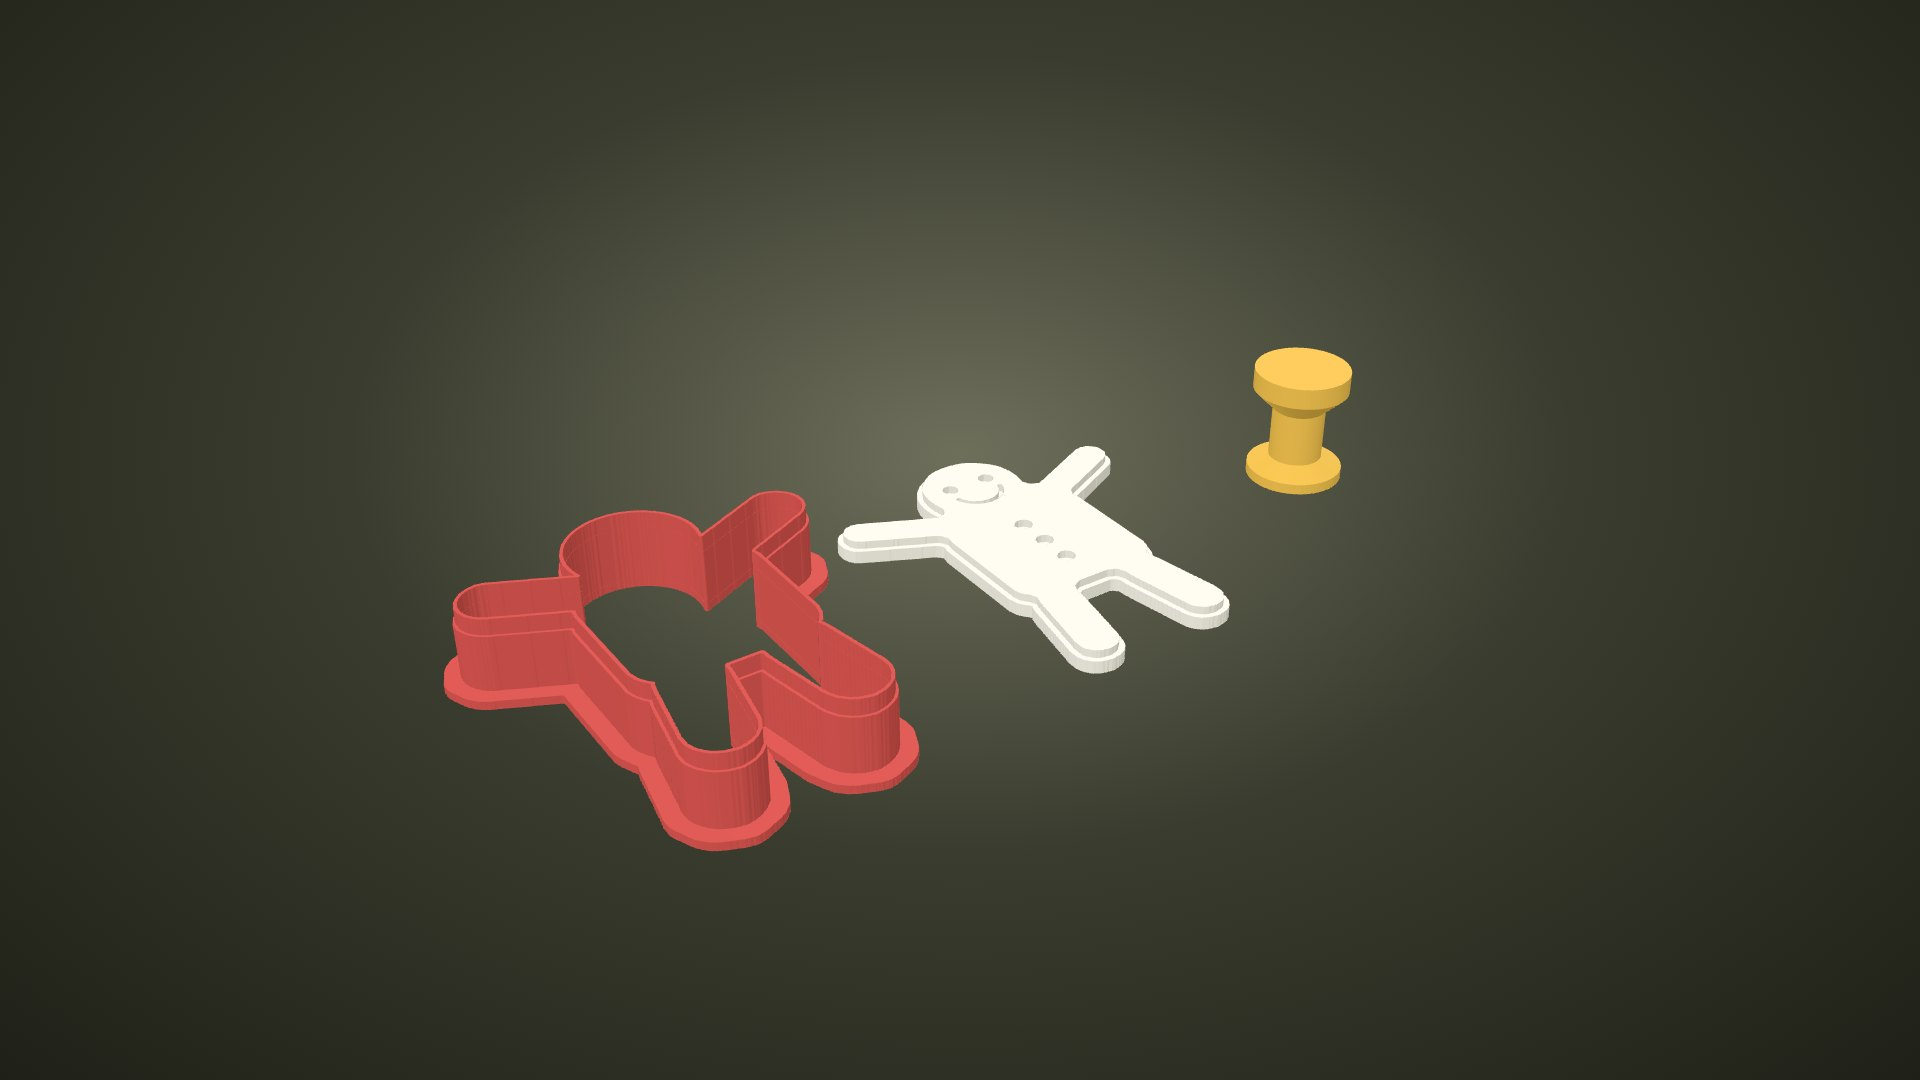
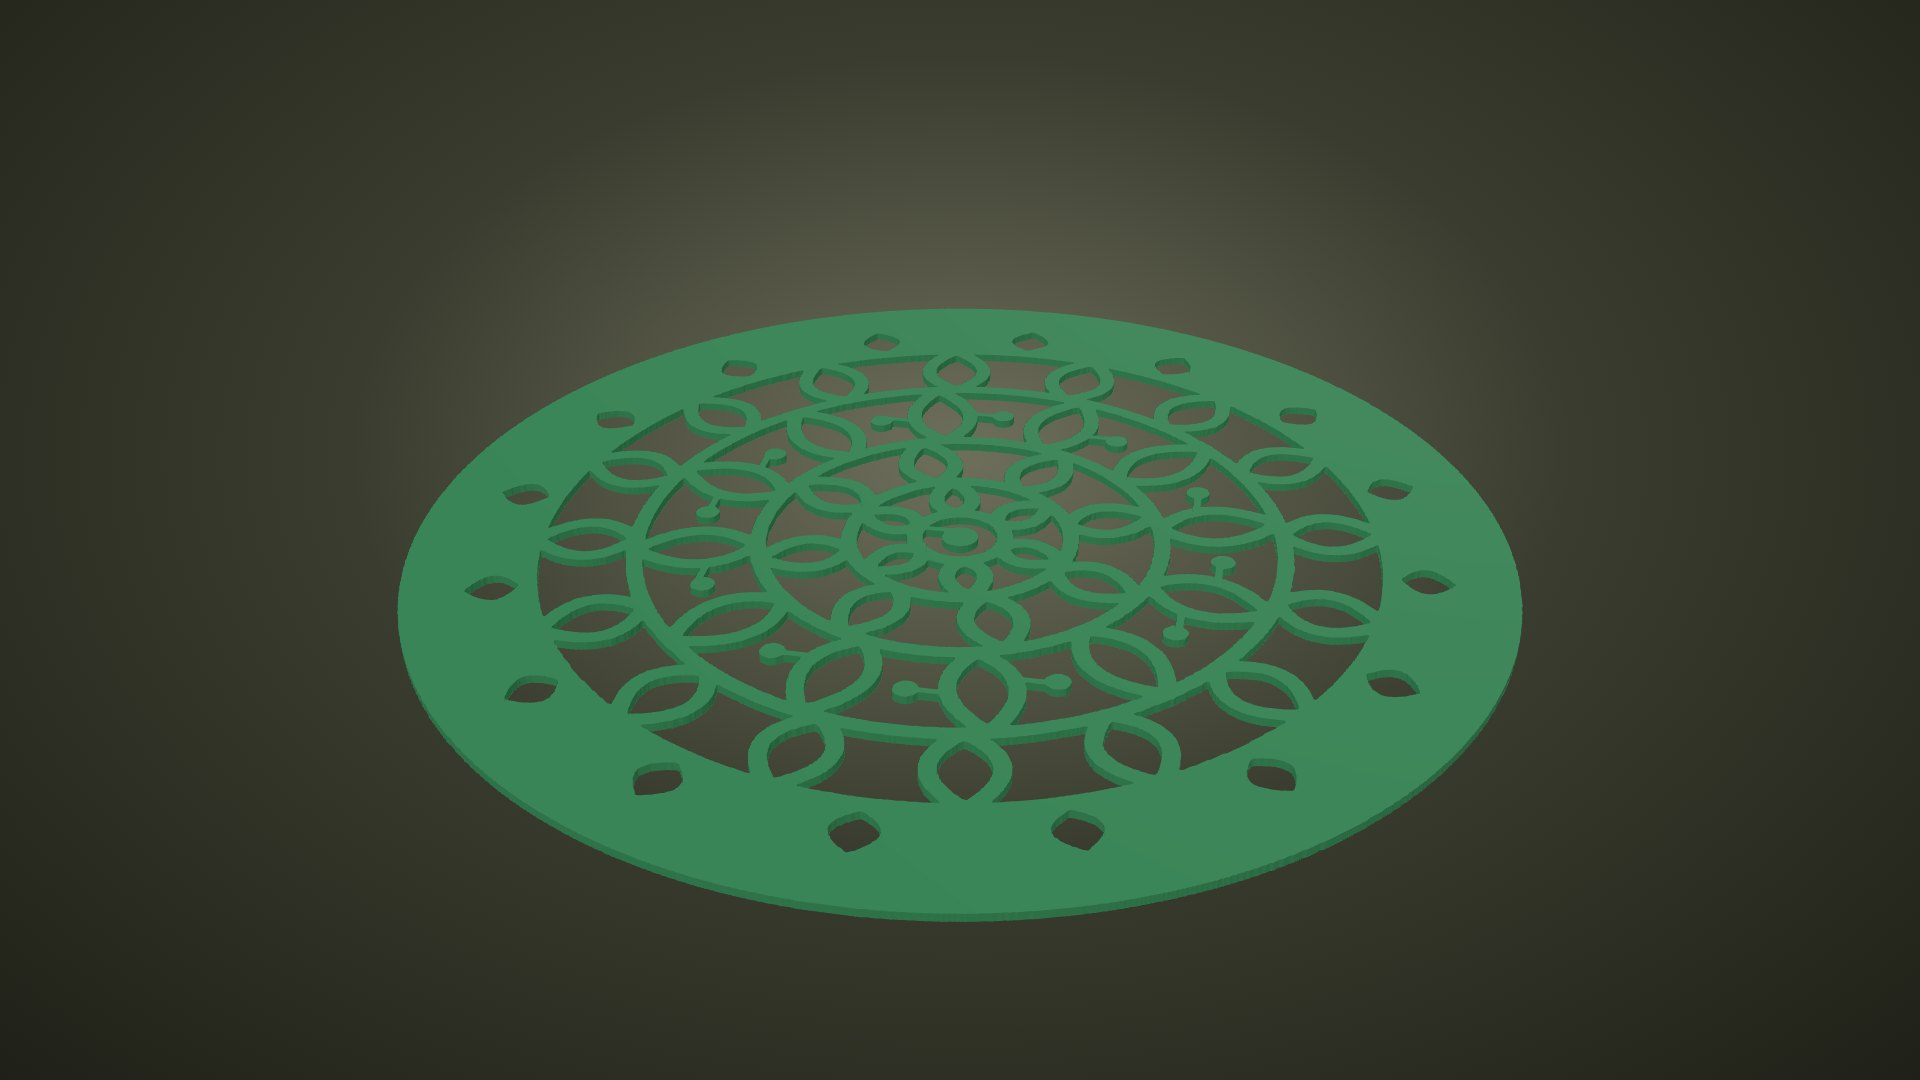
Rangoli Stencil & Cookie Cutter Maker: line-art rangoli mandala that makes a proper stencil, solid pictures fall back to cut-out, rangoli and Diwali naming and keywords, opens on a rangoli stencil
Claude-Session: https://claude.ai/code/session_01VLh6VCEXfHEct3HcRLEJsn

Changed region(s): [[0.1875, 0.275, 0.8125, 0.8556]]

diff --git a/src/lib/tools-extra/cookie-cutter.ts b/src/lib/tools-extra/cookie-cutter.ts
@@ -1,44 +1,52 @@
-/* Catalogue entry for the Cookie Cutter & Stamp Maker. */
+/* Catalogue entry for the Rangoli Stencil, Cookie Cutter & Stamp Maker. */
 import type { Tool, ToolSeo } from '@/lib/tools';
 
 export const tool: Tool | null = {
   slug: 'cookie-cutter',
-  name: 'Cookie Cutter & Stamp Maker',
-  short: 'Cutters, matching stamps and rangoli stencils from any picture or shape.',
-  lede: 'Turn a drawing, a logo, a letter or a ready shape into a cookie cutter with a sharp edge and a comfortable flange, plus a matching stamp that presses the inner lines. Or make a fondant and clay stamp, or a rangoli stencil for Diwali.',
+  name: 'Rangoli Stencil & Cookie Cutter Maker',
+  short: 'Rangoli stencils for Diwali, cookie cutters and stamps from any picture or shape.',
+  lede: 'Turn any rangoli design, mandala, drawing, logo or letter into a 3D printed rangoli stencil, a cookie cutter with a matching stamp, or a fondant and clay stamp. Upload your own picture or start from ready mandalas and shapes; loose parts are joined with thin bridges so every stencil prints in one piece.',
   status: 'coming_soon',
   makePath: '/tools/cookie-cutter/make',
   index: '07',
   image: '/images/hero-cookie-cutter.jpg',
-  slide: { title: 'Any shape, cut and stamped.', lede: 'Cookie cutters with matching stamps, fondant stamps and rangoli stencils from your own pictures.' },
+  slide: { title: 'Rangoli for Diwali, cutters for every day.', lede: 'Print rangoli stencils from any design, and cookie cutters with matching stamps from your own pictures.' },
   youGet: [
-    'A cookie cutter STL with a thin cutting edge and a flange',
-    'A matching stamp (mirrored details) and a handle',
-    'Rangoli stencils with the design cut through and loose islands handled',
-    'A commercial license: sell the cutters and the files',
+    'Rangoli stencils from your own design or a ready mandala, in round, square or rounded plates',
+    'Loose parts joined with thin bridges, so the stencil is one piece',
+    'Cookie cutters with a thin cutting edge, a flange and a matching stamp',
+    'Fondant, clay and soap stamps with mirrored details and a handle',
+    'Letters and numbers, plus ready shapes: heart, star, flower, lotus and more',
+    'A commercial license: sell the stencils, cutters and the files',
   ],
   steps: [
-    { title: 'Pick a shape', text: 'Upload a picture or line drawing, choose a ready shape, or type a letter or number.' },
-    { title: 'Tune the cutter', text: 'Size, height, wall and flange, and whether to add a stamp for the inner lines. Or switch to a stamp or a rangoli stencil.' },
-    { title: 'Print and bake', text: 'Print flange-down with no supports, in PLA or PETG. Dust the stamp with flour and press.' },
+    { title: 'Choose a design', text: 'Upload a rangoli, mandala, kolam or line drawing (a transparent PNG works best), pick a ready shape, or type letters.' },
+    { title: 'Make it printable', text: 'Choose a rangoli stencil, a cookie cutter or a stamp. Set the size, plate shape, thickness and bridges, and check it in 3D.' },
+    { title: 'Print and use', text: 'Print flat with no supports. Fill the stencil with rangoli powder, or bake with the cutter and stamp.' },
   ],
   specs: [
-    ['Makes', 'Cookie cutters, stamps, rangoli stencils'],
-    ['Size', 'Cutters 30–160 mm, stencils 80–280 mm'],
-    ['Cutter', '8–30 mm tall, thin top edge, 0–8 mm flange'],
-    ['Shapes', 'Your picture, letters and numbers, or ready shapes'],
+    ['Makes', 'Rangoli stencils, cookie cutters, cookie and fondant stamps'],
+    ['Stencils', '80–280 mm, round, square or rounded plates, 0.6–3 mm thick'],
+    ['Designs', 'Your picture or PNG, ready rangoli mandalas, shapes, letters and numbers'],
+    ['Cutters', '30–160 mm, 8–30 mm tall, thin top edge, 0–8 mm flange'],
     ['Files', 'Binary STL in a single zip'],
   ],
   faq: [
+    { q: 'How do I make a 3D printed rangoli stencil?', a: 'Upload your rangoli or mandala design (a PNG with a transparent background works best) or choose the ready mandala. The lines of the design become the plastic and the spaces between them are cut through, so the powder falls into the pattern. Print it flat in PLA or PETG.' },
+    { q: 'Will small parts of my rangoli fall out?', a: 'No. Pieces that would be loose, like dots and inner petals, are joined to the stencil with thin bridges you can make wider or narrower. The stencil prints as one piece.' },
+    { q: 'Can I use it for Diwali, Pongal or Onam kolam designs?', a: 'Yes. Any design works: rangoli, kolam, alpana, mandala or a name. Make it as big as your printer allows, up to 280 mm, or print several and place them side by side.' },
     { q: 'What pictures make good cookie cutters?', a: 'A clear silhouette or a line drawing on a plain background. The outside line becomes the cutter; the lines inside can become a matching stamp that presses details into the dough.' },
     { q: 'Are 3D printed cookie cutters food safe?', a: 'Use a filament sold as food-safe, keep the cutter for short contact only, and wash it by hand. Many bakers put a sheet of cling film between cutter and dough.' },
-    { q: 'How does the rangoli stencil work?', a: 'The dark parts of the design are cut through a thin plate. Lay it down, fill the openings with rangoli powder, and lift it straight up. Small islands that would fall out are removed or listed for you.' },
-    { q: 'Can I sell the cutters?', a: 'Yes. Every download comes with a commercial license for the prints and the files.' },
+    { q: 'Can I sell the stencils and cutters?', a: 'Yes. Every download comes with a commercial license for the prints and the files.' },
   ],
 };
 
 export const seo: ToolSeo | null = {
-  title: 'Cookie Cutter STL Generator – Custom Cutters, Stamps & Rangoli Stencils',
-  description: 'Make a custom 3D printable cookie cutter from any picture, letter or shape, with a matching stamp. Also fondant stamps and rangoli stencils.',
-  keywords: ['cookie cutter stl generator', 'custom cookie cutter 3d print', 'cookie stamp stl', 'fondant stamp', 'rangoli stencil', 'diwali rangoli stencil 3d print', 'picture to cookie cutter'],
+  title: 'Rangoli Stencil Maker – 3D Printed Rangoli Stencils for Diwali, Cookie Cutters & Stamps (STL)',
+  description: 'Make 3D printed rangoli stencils for Diwali from any design or mandala, plus custom cookie cutters with matching stamps. Loose parts joined automatically. Print-ready STL.',
+  keywords: [
+    'rangoli stencil maker', '3d printed rangoli', '3d printed rangoli stencil', 'rangoli stencil stl', 'diwali rangoli stencil', 'rangoli maker online',
+    'rangoli design stencil', 'mandala stencil stl', 'kolam stencil', 'diwali 3d print', 'rangoli stencil generator', 'custom rangoli stencil',
+    'cookie cutter stl generator', 'custom cookie cutter 3d print', 'cookie stamp stl', 'fondant stamp', 'picture to cookie cutter',
+  ],
 };

diff --git a/src/components/cookie/cookie-maker.tsx b/src/components/cookie/cookie-maker.tsx
@@ -45,18 +45,18 @@ const place = (src: Uint8Array, sw: number, sh: number, W: number, H: number) =>
 
 export function CookieMaker(buy: KitBuy) {
   const [source, setSource] = useState<Source>('preset');
-  const [preset, setPreset] = useState<Preset>('heart');
+  const [preset, setPreset] = useState<Preset>('mandala');
   const [pic, setPic] = useState<Pic | null>(null), [thumb, setThumb] = useState<string | null>(null);
   const [text, setText] = useState('A'), [fontOk, setFontOk] = useState(false);
   const [thr, setThr] = useState<number | null>(null), [printed, setPrinted] = useState<'drawing' | 'cutout'>('drawing'), [invert, setInvert] = useState(false), [fill, setFill] = useState(true), [largest, setLargest] = useState(true), [useDetail, setUseDetail] = useState(true);
   const [plateShape, setPlateShape] = useState<'circle' | 'square' | 'rounded'>('circle');
-  const [name, setName] = useState('Heart');
-  const [p, setP] = useState<CookieParams>({ mode: 'cutter', size: 80, height: 15, wall: 1.2, edge: 0.6, flange: 3, flangeT: 1.6, plateT: 2.4, reliefT: 1.5, clearance: 0.8, handle: true, stampToo: true, stencilT: 1.2, rim: 4, islands: 'join', bridge: 1.2 });
+  const [name, setName] = useState('Rangoli mandala');
+  const [p, setP] = useState<CookieParams>({ mode: 'stencil', size: 160, height: 15, wall: 1.2, edge: 0.6, flange: 3, flangeT: 1.6, plateT: 2.4, reliefT: 1.5, clearance: 0.8, handle: true, stampToo: true, stencilT: 1.2, rim: 4, islands: 'join', bridge: 1.2 });
   const snap = useRef<MeshSnap | null>(null);
   const set = <K extends keyof CookieParams>(k: K, v: CookieParams[K]) => setP((o) => ({ ...o, [k]: v }));
 
   useEffect(() => { let ok = true; loadGoogleFont('Poppins', 800).then(() => ok && setFontOk(true)); return () => { ok = false; }; }, []);
-  const mode = (m: CookieMode) => { setP((o) => ({ ...o, mode: m, size: m === 'stencil' ? 160 : o.mode === 'stencil' ? 80 : o.size })); if (m === 'stencil' && source === 'preset' && preset !== 'rangoli') { setPreset('rangoli'); setName('Rangoli'); } };
+  const mode = (m: CookieMode) => { setP((o) => ({ ...o, mode: m, size: m === 'stencil' ? 160 : o.mode === 'stencil' ? 80 : o.size })); if (m !== 'stencil' && source === 'preset' && (preset === 'mandala' || preset === 'rangoli')) { setPreset('heart'); setName('Heart'); } if (m === 'stencil' && source === 'preset' && preset !== 'rangoli' && preset !== 'mandala') { setPreset('mandala'); setName('Rangoli mandala'); } };
 
   // the masks, at the resolution the server uses
   // shapes are drawn on a canvas, which only exists in the browser (the page is also rendered once on the server)
@@ -81,8 +81,13 @@ export function CookieMaker(buy: KitBuy) {
       const ink = place(d2.m, d2.w, d2.h, W, H);
       // 'drawing': the picture itself is printed and the gaps inside its outline are cut through;
       // 'cutout': the picture is cut out of a solid plate
-      const detail = printed === 'drawing' ? fillHoles(ink, W, H).map((v, i) => (v && !ink[i] ? 1 : 0)) : ink;
-      return { px, W, H, alpha: d2.alpha ?? false, thr: d2.thr ?? 128, shape: plate, detail, n: pieces(plate.map((v, i) => (v && !detail[i] ? 1 : 0)), W, H).count };
+      let detail = printed === 'drawing' ? fillHoles(ink, W, H).map((v, i) => (v && !ink[i] ? 1 : 0)) : ink, solidPic = false;
+      if (printed === 'drawing') {
+        // a solid picture (no enclosed gaps) would leave nothing to cut: cut its shape out instead
+        let gaps = 0, area = 0; for (let i = 0; i < W * H; i++) { if (ink[i]) area++; if (detail[i]) gaps++; }
+        if (gaps < area * 0.02) { detail = ink; solidPic = true; }
+      }
+      return { px, W, H, solidPic, alpha: d2.alpha ?? false, thr: d2.thr ?? 128, shape: plate, detail, n: pieces(plate.map((v, i) => (v && !detail[i] ? 1 : 0)), W, H).count };
     }
     const pad = Math.ceil((p.wall + p.flange + 3) * px), W = raw.w + 2 * pad, H = raw.h + 2 * pad;
     const all = place(raw.m, raw.w, raw.h, W, H);
@@ -127,7 +132,7 @@ export function CookieMaker(buy: KitBuy) {
       youGet={<><p className="eyebrow">What you get</p><p style={{ marginTop: 8, fontSize: 14.5 }}>{p.mode === 'cutter' ? 'The cutter STL' + (masks?.detail && p.stampToo ? ', a matching stamp that presses the inner lines, and a handle' : '') : p.mode === 'stamp' ? 'The stamp plate, its raised details and a handle' : 'The stencil STL'}, print notes and a commercial license to sell what you print.</p></>}
       side={<>
         <Group title="What to make">
-          <Seg<CookieMode> label="Type" value={p.mode} onChange={mode} options={[['cutter', 'Cookie cutter'], ['stamp', 'Stamp'], ['stencil', 'Rangoli stencil']]} />
+          <Seg<CookieMode> label="Type" value={p.mode} onChange={mode} options={[['stencil', 'Rangoli stencil'], ['cutter', 'Cookie cutter'], ['stamp', 'Stamp']]} />
         </Group>
         <Group title="Shape">
           <Seg<Source> label="From" value={source} onChange={setSource} options={[['preset', 'Ready shapes'], ['picture', 'A picture'], ['text', 'Letters']]} />
@@ -167,6 +172,7 @@ export function CookieMaker(buy: KitBuy) {
           <Range label="Thickness" value={p.stencilT} onChange={(v) => set('stencilT', v)} min={0.6} max={3} step={0.1} fmt={(v) => `${v.toFixed(1)} mm`} />
           <Range label="Solid rim" value={p.rim} onChange={(v) => set('rim', v)} min={0} max={15} step={0.5} fmt={(v) => `${v} mm`} />
           <Seg<'drawing' | 'cutout'> label="The picture is" value={printed} onChange={setPrinted} options={[['drawing', 'Printed (gaps cut)'], ['cutout', 'Cut out']]} />
+          {masks && 'solidPic' in masks && masks.solidPic && <p className="hint" style={{ color: '#8a3b12' }}>This picture is solid shapes with no gaps inside, so its shapes are cut out of the plate instead.</p>}
           <p className="hint">{printed === 'drawing' ? 'The stencil looks like your picture: its lines are plastic and the spaces between them are open for the powder.' : 'The picture is cut out of a solid plate: the powder lands in its shape.'}</p>
           <Seg<'join' | 'remove' | 'keep'> label="Loose pieces" value={p.islands} onChange={(v) => set('islands', v)} options={[['join', 'Join with bridges'], ['remove', 'Remove'], ['keep', 'Keep']]} />
           {p.islands === 'join' && <Range label="Bridge width" value={p.bridge} onChange={(v) => set('bridge', v)} min={0.6} max={3} step={0.1} fmt={(v) => `${v.toFixed(1)} mm`} />}

diff --git a/src/lib/cookie/shapes.ts b/src/lib/cookie/shapes.ts
@@ -1,6 +1,6 @@
 /* Ready-made shapes for cutters and stencils, drawn on a canvas (black = shape). */
-export type Preset = 'heart' | 'star' | 'circle' | 'flower' | 'moon' | 'person' | 'rangoli' | 'lotus';
-export const PRESETS: [Preset, string][] = [['heart', 'Heart'], ['star', 'Star'], ['circle', 'Circle'], ['flower', 'Flower'], ['moon', 'Crescent moon'], ['person', 'Gingerbread person'], ['lotus', 'Lotus'], ['rangoli', 'Rangoli pattern']];
+export type Preset = 'heart' | 'star' | 'circle' | 'flower' | 'moon' | 'person' | 'rangoli' | 'lotus' | 'mandala';
+export const PRESETS: [Preset, string][] = [['heart', 'Heart'], ['star', 'Star'], ['circle', 'Circle'], ['flower', 'Flower'], ['moon', 'Crescent moon'], ['person', 'Gingerbread person'], ['lotus', 'Lotus'], ['mandala', 'Rangoli mandala'], ['rangoli', 'Rangoli flower (solid shapes)']];
 
 export function drawPreset(kind: Preset, S = 600): HTMLCanvasElement {
   const c = document.createElement('canvas'); c.width = S; c.height = S;
@@ -27,6 +27,24 @@ export function drawPreset(kind: Preset, S = 600): HTMLCanvasElement {
     const petal = (a: number, len: number, wid: number) => { g.save(); g.translate(m, S * 0.72); g.rotate(a); g.beginPath(); g.moveTo(0, 0); g.quadraticCurveTo(wid, -len * 0.55, 0, -len); g.quadraticCurveTo(-wid, -len * 0.55, 0, 0); g.fill(); g.restore(); };
     for (const a of [-1.15, 1.15]) petal(a, S * 0.42, S * 0.14); for (const a of [-0.6, 0.6]) petal(a, S * 0.55, S * 0.16); petal(0, S * 0.62, S * 0.17);
     g.beginPath(); g.ellipse(m, S * 0.76, S * 0.34, S * 0.08, 0, 0, Math.PI * 2); g.fill();
+  } else if (kind === 'mandala') {
+    // line-art mandala: the lines are printed, the spaces between them are cut for the powder
+    g.lineWidth = S * 0.016; g.lineJoin = 'round'; g.lineCap = 'round';
+    const ring = (r: number) => { g.beginPath(); g.arc(m, m, S * r, 0, Math.PI * 2); g.stroke(); };
+    const at = (r: number, a: number): [number, number] => [m + S * r * Math.cos(a), m + S * r * Math.sin(a)];
+    const petal = (a: number, r0: number, r1: number, wid: number) => {
+      const [x0, y0] = at(r0, a), [x1, y1] = at(r1, a), mid = (r0 + r1) / 2, [cx1, cy1] = at(mid, a + wid), [cx2, cy2] = at(mid, a - wid);
+      g.beginPath(); g.moveTo(x0, y0); g.quadraticCurveTo(cx1, cy1, x1, y1); g.quadraticCurveTo(cx2, cy2, x0, y0); g.stroke();
+    };
+    const dot = (r: number, a: number, d: number) => { const [x, y] = at(r, a); g.beginPath(); g.arc(x, y, S * d, 0, Math.PI * 2); g.fill(); };
+    // every petal runs from one ring to the next, so the printed lines all hold together
+    ring(0.045); ring(0.11); ring(0.2); ring(0.32); ring(0.42);
+    for (let i = 0; i < 6; i++) petal((i / 6) * Math.PI * 2, 0.045, 0.11, 0.5);
+    for (let i = 0; i < 8; i++) { const a = (i / 8) * Math.PI * 2 + Math.PI / 8; petal(a, 0.11, 0.2, 0.34); }
+    for (let i = 0; i < 12; i++) { const a = (i / 12) * Math.PI * 2; petal(a, 0.2, 0.32, 0.24); dot(0.26, a + Math.PI / 12, 0.012); }
+    for (let i = 0; i < 16; i++) { const a = (i / 16) * Math.PI * 2 + Math.PI / 16; petal(a, 0.32, 0.42, 0.17); }
+    for (let i = 0; i < 16; i++) { const a = (i / 16) * Math.PI * 2; petal(a, 0.42, 0.49, 0.13); }
+    dot(0, 0, 0.018);
   } else {
     // rangoli: rings of petals, dots and a flower in the middle
     g.lineWidth = S * 0.012;

diff --git a/src/app/tools/cookie-cutter/make/page.tsx b/src/app/tools/cookie-cutter/make/page.tsx
@@ -5,17 +5,17 @@ import { KitPage, previewNote } from '@/components/kit/kit-page';
 import { CookieMaker } from '@/components/cookie/cookie-maker';
 
 export const metadata: Metadata = pageMeta({
-  title: 'Cookie Cutter & Stamp STL Maker – Plus Rangoli Stencils',
+  title: 'Rangoli Stencil Maker for Diwali – 3D Printed Rangoli Stencils, Cookie Cutters & Stamps (STL)',
   absoluteTitle: true,
-  description: 'Turn any picture, shape or letter into a 3D printable cookie cutter with a matching stamp, a fondant or clay stamp, or a rangoli stencil. Print-ready STL files.',
+  description: 'Turn any rangoli, mandala or kolam design into a 3D printable rangoli stencil for Diwali, with loose parts joined automatically. Also cookie cutters with matching stamps and fondant stamps.',
   path: '/tools/cookie-cutter/make',
-  keywords: ['cookie cutter stl generator', 'custom cookie cutter', 'cookie stamp stl', 'rangoli stencil 3d print', 'fondant stamp stl', 'picture to cookie cutter'],
+  keywords: ['rangoli stencil maker', '3d printed rangoli', 'diwali rangoli stencil', 'rangoli stencil stl', 'mandala stencil', 'kolam stencil', 'cookie cutter stl generator', 'cookie stamp stl'],
 });
 
 export default async function MakeCookie() {
   const c = await makerContext('cookie-cutter');
   return (
-    <KitPage slug="cookie-cutter" name="Cookie Cutter & Stamp Maker" title="Make a cookie cutter or stencil" note={previewNote(c.live, 'Free to try. Your picture stays in your browser; the printable files are built when you download.')}>
+    <KitPage slug="cookie-cutter" name="Rangoli Stencil & Cookie Cutter Maker" title="Make a rangoli stencil or cookie cutter" note={previewNote(c.live, 'Free to try. Your picture stays in your browser; the printable files are built when you download.')}>
       <CookieMaker {...c.buy} />
     </KitPage>
   );

diff --git a/src/lib/kits/cookie-cutter.server.ts b/src/lib/kits/cookie-cutter.server.ts
@@ -1,4 +1,4 @@
-/* Server kit for the Cookie Cutter & Stamp Maker: rebuilds the parts from the saved masks. */
+/* Server kit for the Rangoli Stencil & Cookie Cutter Maker: rebuilds the parts from the saved masks. */
 import 'server-only';
 import type { Kit } from './types';
 import { packKit } from './pack.server';
